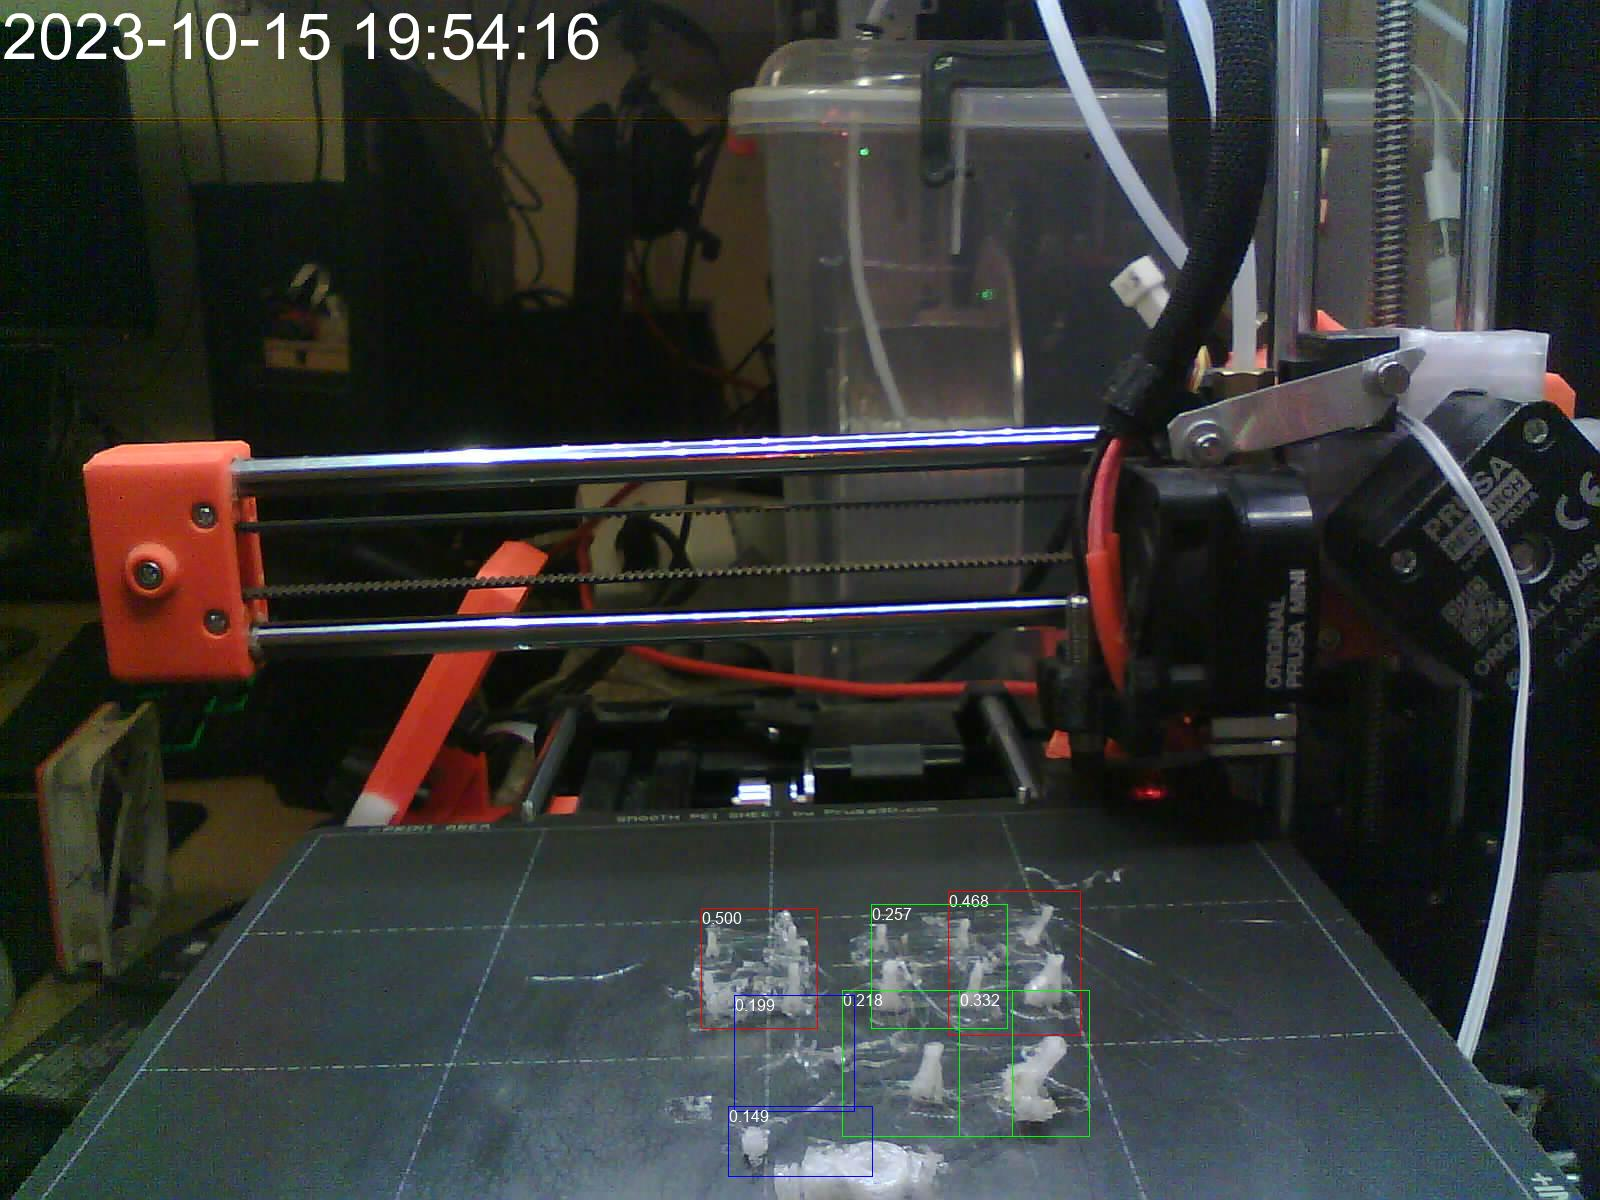
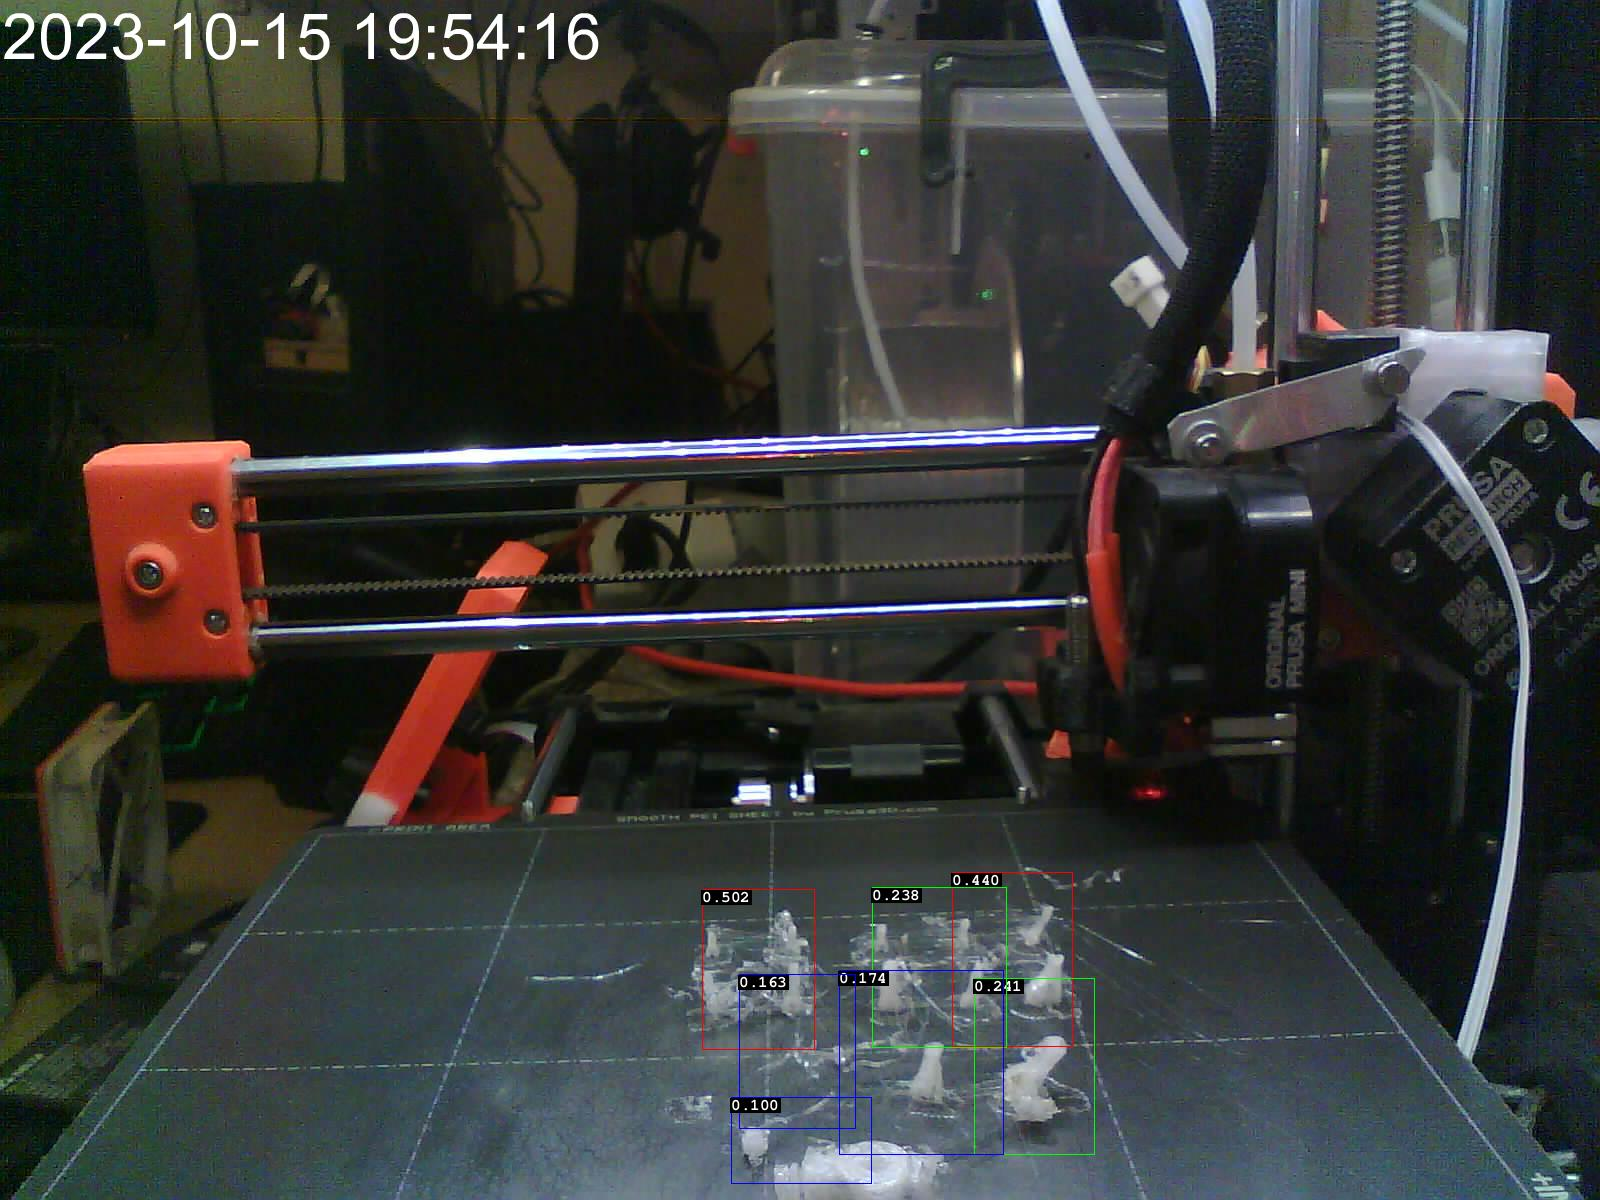
obico-ml-api-only draw detections with black background under text and in bold

Changed region(s): [[0.4375, 0.7092, 0.6875, 0.9867]]

diff --git a/obico-ml-api-only/draw_detections.py b/obico-ml-api-only/draw_detections.py
@@ -84,13 +84,17 @@ def draw_coords(
     # get coords as shape, a tuple of point
     shape = shape_points(coords)
 
-    # draw a shape, box
+    # draw a bounding box
     draw.line(shape, fill=color, width=width)
+    # draw a text in the top left corner
+    font = ImageFont.truetype("FreeMonoBold", font_size)
 
-    # draw a text in the corner
     (x1, y1) = shape[0]  # location where to write text, in here this is top left corner
-    font = ImageFont.truetype("FreeMono", font_size)
-    draw.text((x1 + width, y1 + width), text, font=font)
+    left, top, right, bottom = draw.textbbox((x1, y1), text, font=font)
+    draw.rectangle(
+        (left - width, top - width, right + width, bottom + width), fill="black"
+    )
+    draw.text((x1, y1), text, font=font, fill="white")
 
     logging.debug("draw coords=%s text=%s color=%s", coords, text, color)
 
@@ -122,7 +126,7 @@ def overlay_detections(img, detections, ignored, ignore):
         threshold = d[1]
         color = threshold_to_color(0.0)
         text = f"{threshold:.3f}"
-        draw_coords(draw=draw, text={text}, coords=d[2], color=color, width=3)
+        draw_coords(draw=draw, text=text, coords=d[2], color=color, width=3)
 
     # draw detections
     for d in detections:

diff --git a/obico-ml-api-only/README.md b/obico-ml-api-only/README.md
@@ -62,8 +62,9 @@ python3 draw_detections.py --api http://127.0.0.1:3333 https://bagno.hlds.pl/obi
 
 This should export detections to json and image file, each one can be further passed by other tools.
 
-![out.png](./out.jpg)
+![out.jpg](./out.jpg)
 
+[out.json](./out.json)
 <!-- markdownlint-disable html line-length -->
 ```json
 [["failure", 0.502, [758.0, 969.0, 113.0, 160.0]], ["failure", 0.44, [1012.0, 959.0, 121.0, 174.0]], ["failure", 0.241, [1034.0, 1066.0, 120.0, 176.0]], ["failure", 0.238, [939.0, 967.0, 134.0, 161.0]], ["failure", 0.174, [921.0, 1062.0, 164.0, 184.0]], ["failure", 0.163, [797.0, 1051.0, 117.0, 154.0]], ["failure", 0.1, [801.0, 1140.0, 140.0, 86.0]]]
